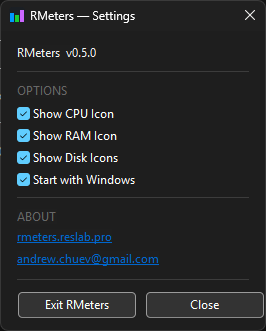
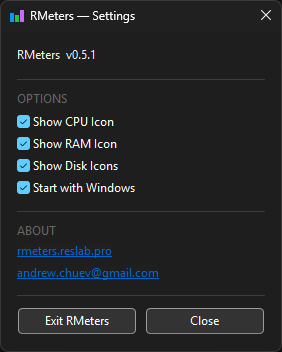
fix(settings): size window from client area and even out padding

diff --git a/src/settings.rs b/src/settings.rs
@@ -17,7 +17,9 @@ use windows::Win32::UI::Controls::{
     ICC_LINK_CLASS, INITCOMMONCONTROLSEX, InitCommonControlsEx, NMHDR, NMLINK, NM_CLICK,
     SetWindowTheme,
 };
-use windows::Win32::UI::HiDpi::{GetDpiForMonitor, GetDpiForWindow, MDT_EFFECTIVE_DPI};
+use windows::Win32::UI::HiDpi::{
+    AdjustWindowRectExForDpi, GetDpiForMonitor, GetDpiForWindow, MDT_EFFECTIVE_DPI,
+};
 use windows::Win32::UI::Shell::ShellExecuteW;
 use windows::Win32::UI::WindowsAndMessaging::{
     BM_GETCHECK, BM_SETCHECK, BN_CLICKED, BS_AUTOCHECKBOX, BS_PUSHBUTTON,
@@ -64,14 +66,30 @@ fn icon_options() -> [(usize, PCWSTR, &'static AtomicBool); ICON_OPTION_COUNT] {
 }
 
 // Vertical layout in logical pixels, derived from the number of option rows.
+// All values are client-area coordinates; the window size is derived from them.
+const PAD: i32 = 16; // outer margin on every side
+const SEP_GAP: i32 = 12; // space above and below each separator
+const CLIENT_W: i32 = 280;
+const CONTENT_W: i32 = CLIENT_W - 2 * PAD;
+const BTN_GAP: i32 = 8;
+const BTN_W: i32 = (CONTENT_W - BTN_GAP) / 2;
+const BTN_H: i32 = 28;
 const ROW_H: i32 = 22;
-const OPTIONS_TOP: i32 = 72;
+const LABEL_H: i32 = 16;
+const LINK_H: i32 = 18;
+const VERSION_H: i32 = 20;
+
+const VERSION_TOP: i32 = PAD;
+const SEP_OPTIONS: i32 = VERSION_TOP + VERSION_H + SEP_GAP;
+const OPTIONS_LABEL_TOP: i32 = SEP_OPTIONS + SEP_GAP;
+const OPTIONS_TOP: i32 = OPTIONS_LABEL_TOP + LABEL_H + 4;
 const OPTION_ROWS: i32 = ICON_OPTION_COUNT as i32 + 1; // + autostart
-const SEP_ABOUT: i32 = OPTIONS_TOP + OPTION_ROWS * ROW_H + 6;
-const ABOUT_TOP: i32 = SEP_ABOUT + 12;
-const SEP_BUTTONS: i32 = ABOUT_TOP + 70;
-const BUTTONS_TOP: i32 = SEP_BUTTONS + 12;
-const WIN_H: i32 = BUTTONS_TOP + 78;
+const SEP_ABOUT: i32 = OPTIONS_TOP + OPTION_ROWS * ROW_H + SEP_GAP;
+const ABOUT_TOP: i32 = SEP_ABOUT + SEP_GAP;
+const LINKS_TOP: i32 = ABOUT_TOP + LABEL_H + 4;
+const SEP_BUTTONS: i32 = LINKS_TOP + 2 * LINK_H + 4 + SEP_GAP;
+const BUTTONS_TOP: i32 = SEP_BUTTONS + SEP_GAP;
+const CLIENT_H: i32 = BUTTONS_TOP + BTN_H + PAD;
 
 /// Scales a logical pixel value to physical pixels using the window's DPI.
 fn dpi_scale(v: i32, dpi: u32) -> i32 {
@@ -137,19 +155,19 @@ pub unsafe extern "system" fn settings_wnd_proc(
 
             // ── Version label ──────────────────────────────────────────────
             let ver = HSTRING::from(format!("RMeters  v{}", env!("CARGO_PKG_VERSION")));
-            if let Ok(l) = ctrl!(w!("STATIC"), w!(""), 0, 16, 14, 248, 20, IDC_LBL_VERSION) {
+            if let Ok(l) = ctrl!(w!("STATIC"), w!(""), 0, PAD, VERSION_TOP, CONTENT_W, VERSION_H, IDC_LBL_VERSION) {
                 let _ = SetWindowTextW(l, &ver);
                 SendMessageW(l, WM_SETFONT, fwp, LPARAM(1));
             }
 
             // ── Options ────────────────────────────────────────────────────
-            if let Ok(l) = ctrl!(w!("STATIC"), w!("OPTIONS"), 0, 16, 52, 80, 16, IDC_LBL_OPTIONS) {
+            if let Ok(l) = ctrl!(w!("STATIC"), w!("OPTIONS"), 0, PAD, OPTIONS_LABEL_TOP, CONTENT_W, LABEL_H, IDC_LBL_OPTIONS) {
                 SendMessageW(l, WM_SETFONT, fwp, LPARAM(1));
             }
             let mut row_y = OPTIONS_TOP;
             for (id, label, flag) in icon_options() {
                 if let Ok(c) = ctrl!(w!("BUTTON"), label,
-                    BS_AUTOCHECKBOX as u32, 16, row_y, 248, ROW_H, id)
+                    BS_AUTOCHECKBOX as u32, PAD, row_y, CONTENT_W, ROW_H, id)
                 {
                     let checked = flag.load(Ordering::Relaxed);
                     SendMessageW(c, BM_SETCHECK, WPARAM(checked as usize), LPARAM(0));
@@ -159,7 +177,7 @@ pub unsafe extern "system" fn settings_wnd_proc(
                 row_y += ROW_H;
             }
             if let Ok(c) = ctrl!(w!("BUTTON"), w!("Start with Windows"),
-                BS_AUTOCHECKBOX as u32, 16, row_y, 248, ROW_H, IDC_CHK_AUTOSTART)
+                BS_AUTOCHECKBOX as u32, PAD, row_y, CONTENT_W, ROW_H, IDC_CHK_AUTOSTART)
             {
                 SendMessageW(c, BM_SETCHECK, WPARAM(autostart as usize), LPARAM(0));
                 SendMessageW(c, WM_SETFONT, fwp, LPARAM(1));
@@ -167,19 +185,19 @@ pub unsafe extern "system" fn settings_wnd_proc(
             }
 
             // ── About ──────────────────────────────────────────────────────
-            if let Ok(l) = ctrl!(w!("STATIC"), w!("ABOUT"), 0, 16, ABOUT_TOP, 80, 16, IDC_LBL_ABOUT) {
+            if let Ok(l) = ctrl!(w!("STATIC"), w!("ABOUT"), 0, PAD, ABOUT_TOP, CONTENT_W, LABEL_H, IDC_LBL_ABOUT) {
                 SendMessageW(l, WM_SETFONT, fwp, LPARAM(1));
             }
             if let Ok(l) = ctrl!(w!("SysLink"),
                 w!("<a href=\"https://rmeters.reslab.pro\">rmeters.reslab.pro</a>"),
-                0, 16, ABOUT_TOP + 20, 248, 18, 0usize)
+                0, PAD, LINKS_TOP, CONTENT_W, LINK_H, 0usize)
             {
                 SendMessageW(l, WM_SETFONT, fwp, LPARAM(1));
                 let _ = SetWindowTheme(l, w!(""), w!(""));
             }
             if let Ok(l) = ctrl!(w!("SysLink"),
                 w!("<a href=\"mailto:andrew.chuev@gmail.com\">andrew.chuev@gmail.com</a>"),
-                0, 16, ABOUT_TOP + 42, 248, 18, 0usize)
+                0, PAD, LINKS_TOP + LINK_H + 4, CONTENT_W, LINK_H, 0usize)
             {
                 SendMessageW(l, WM_SETFONT, fwp, LPARAM(1));
                 let _ = SetWindowTheme(l, w!(""), w!(""));
@@ -187,13 +205,13 @@ pub unsafe extern "system" fn settings_wnd_proc(
 
             // ── Buttons ────────────────────────────────────────────────────
             if let Ok(b) = ctrl!(w!("BUTTON"), w!("Exit RMeters"),
-                BS_PUSHBUTTON as u32, 16, BUTTONS_TOP, 120, 28, IDC_BTN_EXIT)
+                BS_PUSHBUTTON as u32, PAD, BUTTONS_TOP, BTN_W, BTN_H, IDC_BTN_EXIT)
             {
                 SendMessageW(b, WM_SETFONT, fwp, LPARAM(1));
                 let _ = SetWindowTheme(b, w!("DarkMode_Explorer"), PCWSTR::null());
             }
             if let Ok(b) = ctrl!(w!("BUTTON"), w!("Close"),
-                BS_PUSHBUTTON as u32, 144, BUTTONS_TOP, 120, 28, IDC_BTN_CLOSE)
+                BS_PUSHBUTTON as u32, CLIENT_W - PAD - BTN_W, BUTTONS_TOP, BTN_W, BTN_H, IDC_BTN_CLOSE)
             {
                 SendMessageW(b, WM_SETFONT, fwp, LPARAM(1));
                 let _ = SetWindowTheme(b, w!("DarkMode_Explorer"), PCWSTR::null());
@@ -218,12 +236,12 @@ pub unsafe extern "system" fn settings_wnd_proc(
             let dpi = GetDpiForWindow(hwnd);
             let mut rc = RECT::default();
             let _ = GetClientRect(hwnd, &mut rc);
-            let x1 = dpi_scale(16, dpi);
-            let x2 = rc.right - dpi_scale(16, dpi);
+            let x1 = dpi_scale(PAD, dpi);
+            let x2 = rc.right - dpi_scale(PAD, dpi);
 
             let pen = CreatePen(PS_SOLID, 1, COLORREF(COLOR_SEP));
             let old = SelectObject(hdc, HGDIOBJ(pen.0));
-            for y in [dpi_scale(40, dpi), dpi_scale(SEP_ABOUT, dpi), dpi_scale(SEP_BUTTONS, dpi)] {
+            for y in [dpi_scale(SEP_OPTIONS, dpi), dpi_scale(SEP_ABOUT, dpi), dpi_scale(SEP_BUTTONS, dpi)] {
                 let _ = MoveToEx(hdc, x1, y, None);
                 let _ = LineTo(hdc, x2, y);
             }
@@ -370,14 +388,23 @@ pub fn show_settings() {
         let mut dpi_x = 96u32;
         let mut dpi_y = 96u32;
         let _ = GetDpiForMonitor(hmon, MDT_EFFECTIVE_DPI, &mut dpi_x, &mut dpi_y);
-        let win_w = dpi_scale(280, dpi_x);
-        let win_h = dpi_scale(WIN_H, dpi_x);
+        // The layout is in client coordinates; add the title bar and borders on top.
+        let style = WS_OVERLAPPED | WS_CAPTION | WS_SYSMENU;
+        let mut rc = RECT {
+            left: 0,
+            top: 0,
+            right: dpi_scale(CLIENT_W, dpi_x),
+            bottom: dpi_scale(CLIENT_H, dpi_x),
+        };
+        let _ = AdjustWindowRectExForDpi(&mut rc, style, false, WINDOW_EX_STYLE(0), dpi_x);
+        let win_w = rc.right - rc.left;
+        let win_h = rc.bottom - rc.top;
 
         let (x, y) = center_on_monitor(hmon, win_w, win_h);
 
         if let Ok(hwnd) = CreateWindowExW(
             WINDOW_EX_STYLE(0), class_name, w!("RMeters \u{2014} Settings"),
-            WS_OVERLAPPED | WS_CAPTION | WS_SYSMENU,
+            style,
             x, y, win_w, win_h,
             None, HMENU::default(), hmod,
             None,
